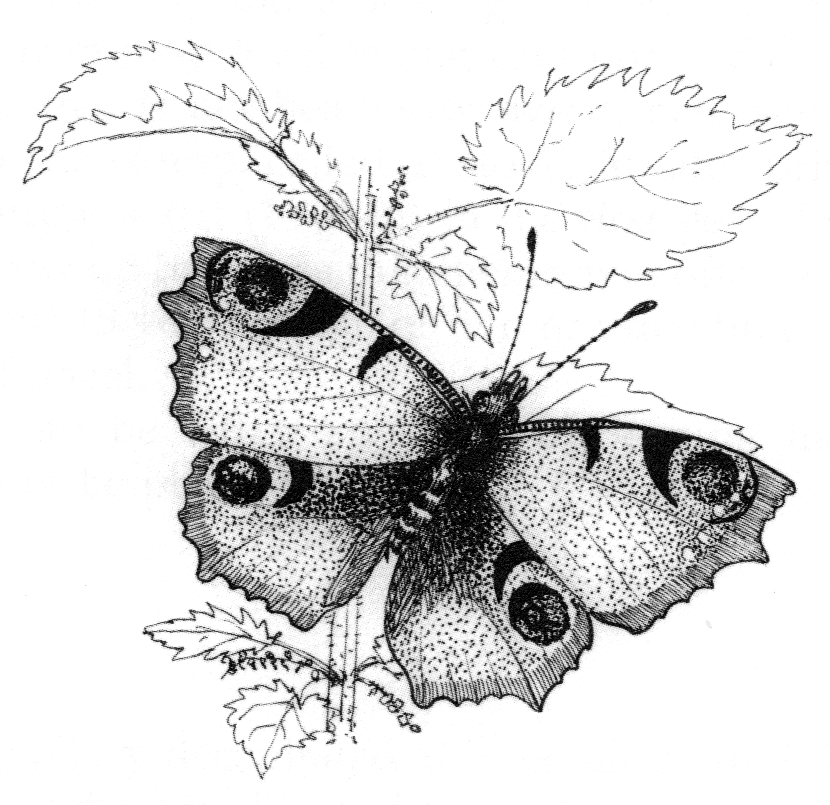
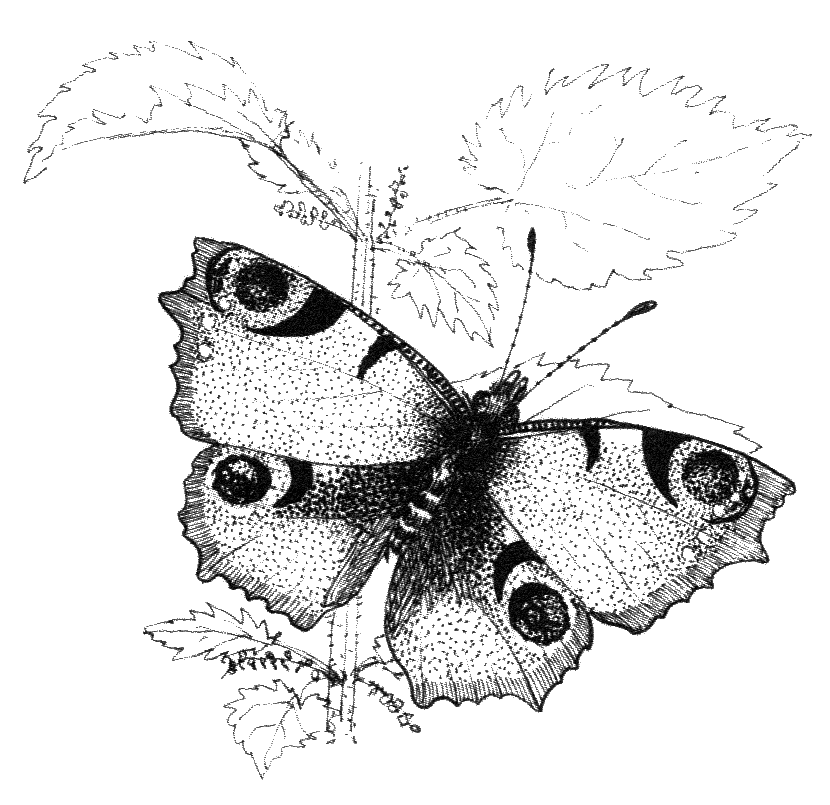
feat: transparent drawings

diff --git a/src/components/utilities/drawing/drawing.scss b/src/components/utilities/drawing/drawing.scss
@@ -1,3 +1,3 @@
 .drawing {
-    @apply bg-brand-yellow-light;
+    //
 }

diff --git a/src/components/utilities/drawing/README.md b/src/components/utilities/drawing/README.md
@@ -1,3 +1,5 @@
-## Buttons
+## Drawings
 
-Button styles.
+The hand-drawn images. These are transparent and can be used on any background.
+
+The background can be modified directly by using the appropriate class; `bg-color-brand-yellow`.
